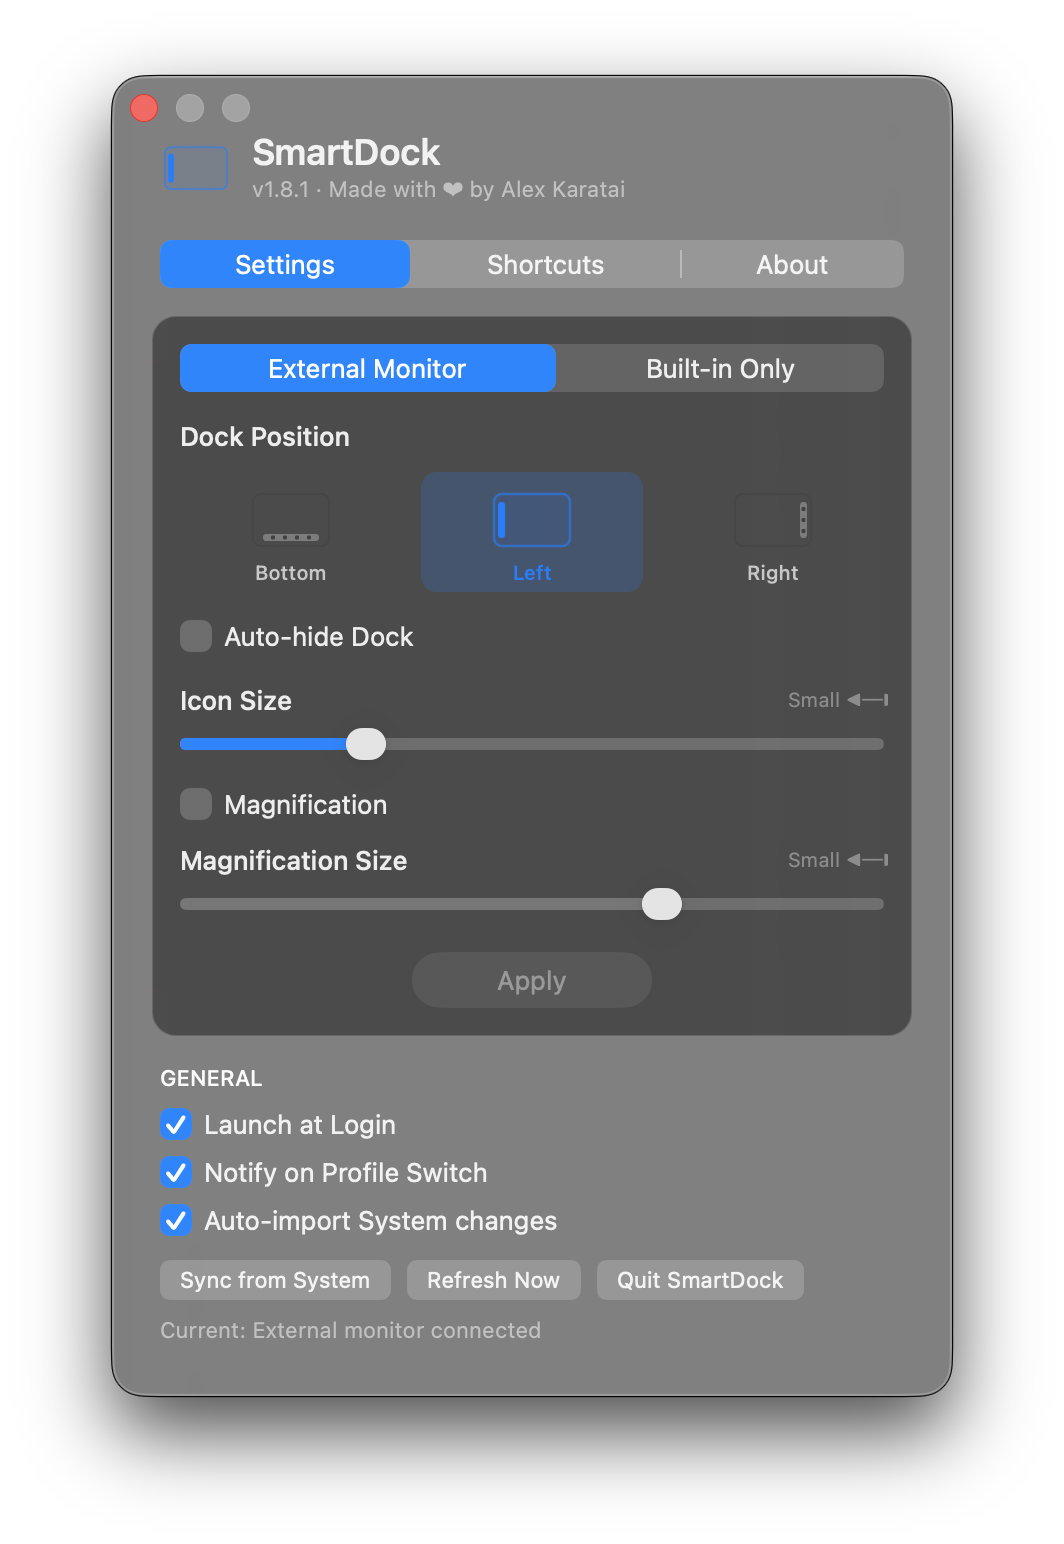
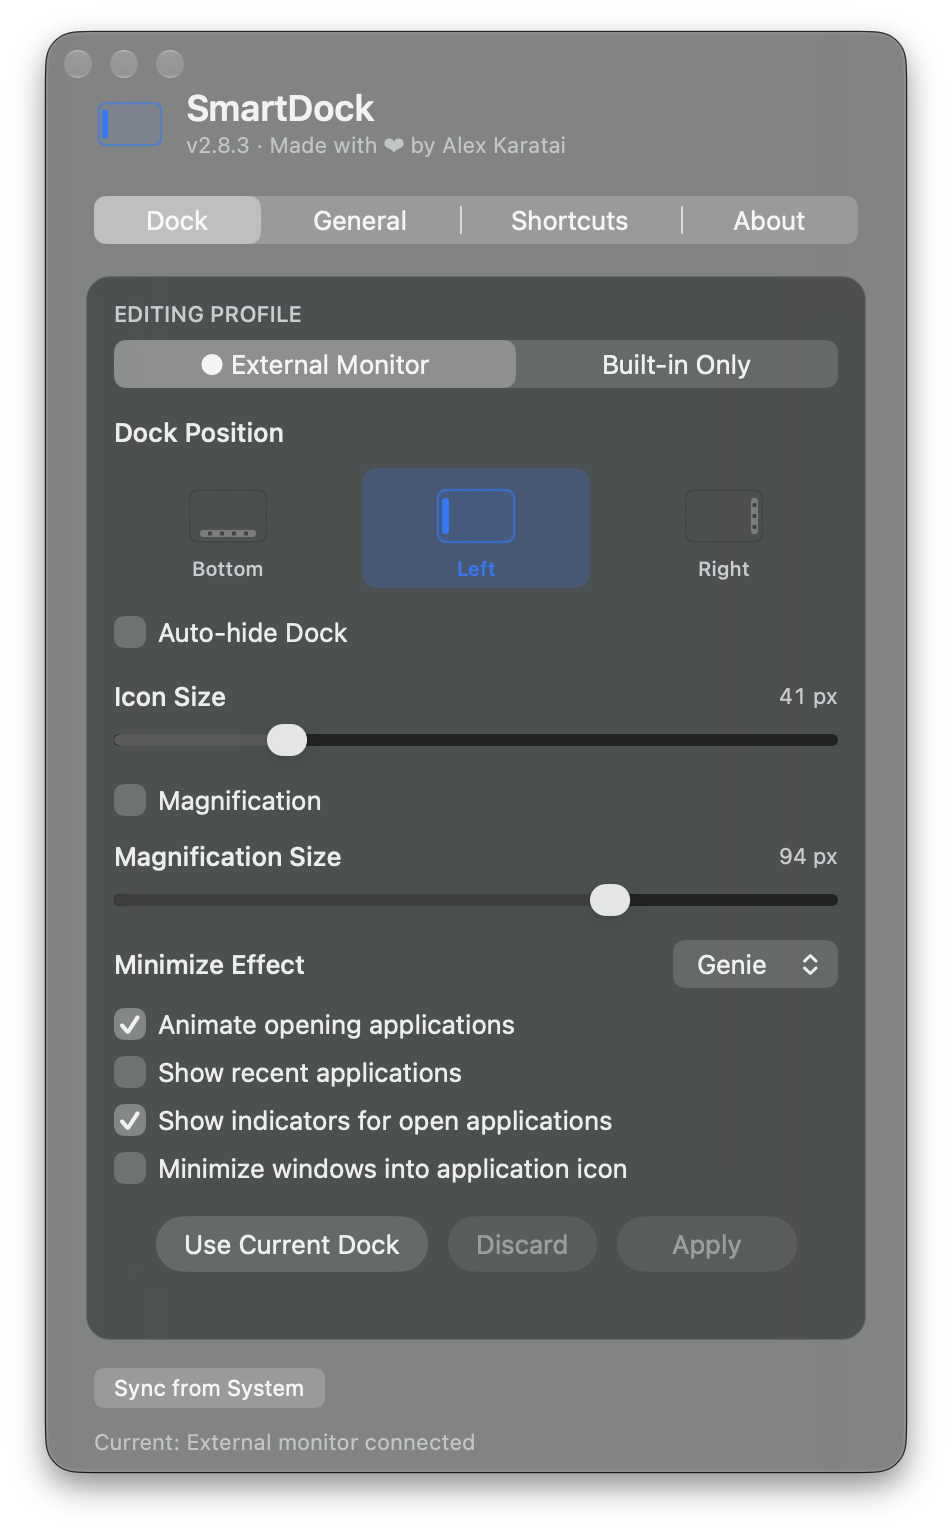
Update version to 2.8.4, enhance changelog, and improve settings window screenshot

diff --git a/Tests/SmartDockTests/ShotTool.swift b/Tests/SmartDockTests/ShotTool.swift
@@ -1,0 +1,92 @@
+import Cocoa
+import Testing
+
+@testable import SmartDockCore
+@testable import SmartDockUI
+
+/// Draws the README's screenshot, and asserts nothing.
+///
+/// It lives here because rendering the real window needs the real view hierarchy, which
+/// only the test bundle can build. It is off unless `SHOT_PATH` is set, so an ordinary
+/// `swift test` neither runs it nor writes a file:
+///
+///     SHOT_PATH=assets/settings.png \
+///       SHOT_VERSION=$(awk '/^VERSION/ {print $3; exit}' Makefile) \
+///       swift test --filter renderTheSettingsWindow
+///
+/// The point is that re-shooting costs one command. The picture it replaced was taken by
+/// hand at 1.8.1 and still showed a three-tab window five versions later, because nothing
+/// made it cheap to retake. It draws from a scratch store, so it shows made-up settings
+/// rather than those of whoever runs it.
+@Suite("Shot tool")
+@MainActor
+struct ShotTool {
+
+    @Test(.enabled(if: ProcessInfo.processInfo.environment["SHOT_PATH"] != nil))
+    func renderTheSettingsWindow() throws {
+        _ = NSApplication.shared
+
+        let scratch = ScratchPreferences()
+        scratch.prefs.externalConfig = DockConfiguration(
+            autohide: false,
+            position: .left,
+            iconSize: DockConfiguration.pixelsToScale(48),
+            magnification: true,
+            magnificationSize: DockConfiguration.pixelsToScale(80),
+            minimizeEffect: .genie,
+            animatesLaunch: true,
+            showsRecents: false,
+            showsIndicators: true,
+            minimizesToApplication: false)
+        scratch.prefs.builtinConfig = DockConfiguration(autohide: true, position: .left)
+
+        let monitor = MockDisplayMonitor()
+        monitor.mockExternalCount = 1
+        let dock = MockDockController()
+        let service = SmartDockService(
+            displayMonitor: monitor, dockController: dock, prefs: scratch.prefs)
+        service.start()
+        let hotkeys = HotkeyManager(service: service, prefs: scratch.prefs)
+        let settings = SettingsWindow(
+            service: service, hotkeyManager: hotkeys, prefs: scratch.prefs,
+            decideDraft: { _ in .discard })
+
+        settings.show(tab: .dock)
+        let window = try #require(settings.window)
+        window.setContentSize(NSSize(width: 420, height: 720))
+
+        // The header reads `Bundle.main.shortVersion`, and in a test bundle that is the
+        // runner's 1.0.0. Put the app's real version back before the picture is taken.
+        if let version = ProcessInfo.processInfo.environment["SHOT_VERSION"],
+            let content = window.contentView
+        {
+            retitleVersion(in: content, to: "v\(version) · Made with \u{2764} by Alex Karatai")
+        }
+        // Key, or the close/minimise buttons draw in their inactive grey.
+        NSApp.activate(ignoringOtherApps: true)
+        window.makeKeyAndOrderFront(nil)
+        RunLoop.current.run(until: Date().addingTimeInterval(0.3))
+        window.displayIfNeeded()
+
+        // The theme frame rather than the content view, so the picture carries the
+        // window's own chrome — rounded corners and the close/minimise buttons.
+        let view = try #require(window.contentView?.superview ?? window.contentView)
+        let rep = try #require(view.bitmapImageRepForCachingDisplay(in: view.bounds))
+        view.cacheDisplay(in: view.bounds, to: rep)
+        let png = try #require(rep.representation(using: .png, properties: [:]))
+        let path = try #require(ProcessInfo.processInfo.environment["SHOT_PATH"])
+        try png.write(to: URL(fileURLWithPath: path))
+        print("wrote \(rep.pixelsWide)x\(rep.pixelsHigh) to \(path)")
+
+        window.close()
+    }
+
+    /// Finds the byline label by what it says and rewrites it.
+    private func retitleVersion(in view: NSView, to text: String) {
+        if let field = view as? NSTextField, field.stringValue.contains("Made with") {
+            field.stringValue = text
+            return
+        }
+        for subview in view.subviews { retitleVersion(in: subview, to: text) }
+    }
+}

diff --git a/README.md b/README.md
@@ -9,7 +9,7 @@
 </p>
 
 <p align="center">
-  <img src="https://img.shields.io/badge/version-2.8.3-blue?style=flat-square" alt="Version 2.8.3"/>
+  <img src="https://img.shields.io/badge/version-2.8.4-blue?style=flat-square" alt="Version 2.8.4"/>
   <img src="https://img.shields.io/badge/macOS-14.0%2B-000000?style=flat-square&logo=apple&logoColor=white" alt="macOS 14+"/>
   <img src="https://img.shields.io/badge/Swift-6.2-F05138?style=flat-square&logo=swift&logoColor=white" alt="Swift 6.2"/>
   <img src="https://img.shields.io/badge/license-MIT-green?style=flat-square" alt="MIT License"/>
@@ -39,7 +39,7 @@ On first launch both profiles are your Dock exactly as it is. Nothing changes un
 | 🔗 | **URL scheme** | `smartdock://` commands for Raycast, Alfred, Shortcuts.app and shell scripts |
 | 🩺 | **Diagnostics** | Copy Diagnostic Info + Export Logs — both scrubbed of anything identifying |
 | 📜 | **AppleScript** | Scriptable from Script Editor, `osascript`, Automator and Shortcuts |
-| 🎨 | **Glass UI** | Tabbed settings window (Settings / Shortcuts / About) with `NSVisualEffectView` |
+| 🎨 | **Glass UI** | Tabbed settings window (Dock / General / Shortcuts / About) with `NSVisualEffectView` |
 | 🚀 | **Launch at Login** | Native `SMAppService` integration |
 | 🛡 | **Smooth transitions** | Per-property AppleScript — no Dock restart needed |
 | 👋 | **Onboarding** | Welcome screen on first launch |
@@ -176,7 +176,7 @@ Sources/
 │   └── AppIntentsSupport.swift       # App Intents for Shortcuts.app and Spotlight
 └── SmartDockUI/                      # AppKit layer as a library, so it can be tested
     ├── StatusBarController.swift     # Menu bar icon & dropdown with SF Symbol icons
-    ├── SettingsWindow.swift          # Tabbed glass window (Settings / Shortcuts / About)
+    ├── SettingsWindow.swift          # Tabbed glass window (Dock / General / Shortcuts / About)
     ├── OnboardingWindow.swift        # First-launch welcome screen
     ├── NotificationManager.swift     # macOS banner notifications
     ├── HotkeyManager.swift           # Global keyboard shortcuts (5 actions)

diff --git a/CLAUDE.md b/CLAUDE.md
@@ -336,7 +336,12 @@ is tested as the real type with `openDefaults`/`runScript`/delays injected; `Sma
 takes the mocks. A bare `DisplayMonitor()` or `DockController()` appears only in a few smoke
 tests that assert ranges safe on any machine — do not add more. Anchor size assertions to
 `pixelsToScale()`, not knife-edge floats. `#expect` wraps its argument in a
-closure, so a `mutating` call goes into a named `let` first.
+closure, so a `mutating` call goes into a named `let` first. `ShotTool` asserts nothing —
+it draws `assets/settings.png` from the real window, and is `.enabled(if:)` on `SHOT_PATH`
+so an ordinary run neither executes it nor writes a file. It lives in the bundle because
+only the bundle can build the view hierarchy, and it exists because the picture it
+replaced was shot by hand at 1.8.1 and still showed a three-tab window five versions
+later. `screencapture` is not an option from here: it needs a Screen Recording grant.
 
 ## Code Style
 

diff --git a/CHANGELOG.md b/CHANGELOG.md
@@ -7,6 +7,18 @@ and this project adheres to [Semantic Versioning](https://semver.org/spec/v2.0.0
 
 ## [Unreleased]
 
+## [2.8.4] — 2026-09-26
+
+### Fixed
+
+- The README showed a settings window that has not existed for five versions. The
+  screenshot was taken by hand at 1.8.1 and still had three tabs and a merged Settings
+  pane; the text beside it described the same three. Both now show the four tabs the app
+  has — Dock, General, Shortcuts, About — along with the minimize effect, the launch,
+  recents and indicator toggles, and Use Current Dock / Discard / Apply. Re-taking the
+  picture is now one command (`ShotTool`), which is what it cost the last time nothing
+  was retaken.
+
 ## [2.8.3] — 2026-09-25
 
 ### Fixed
